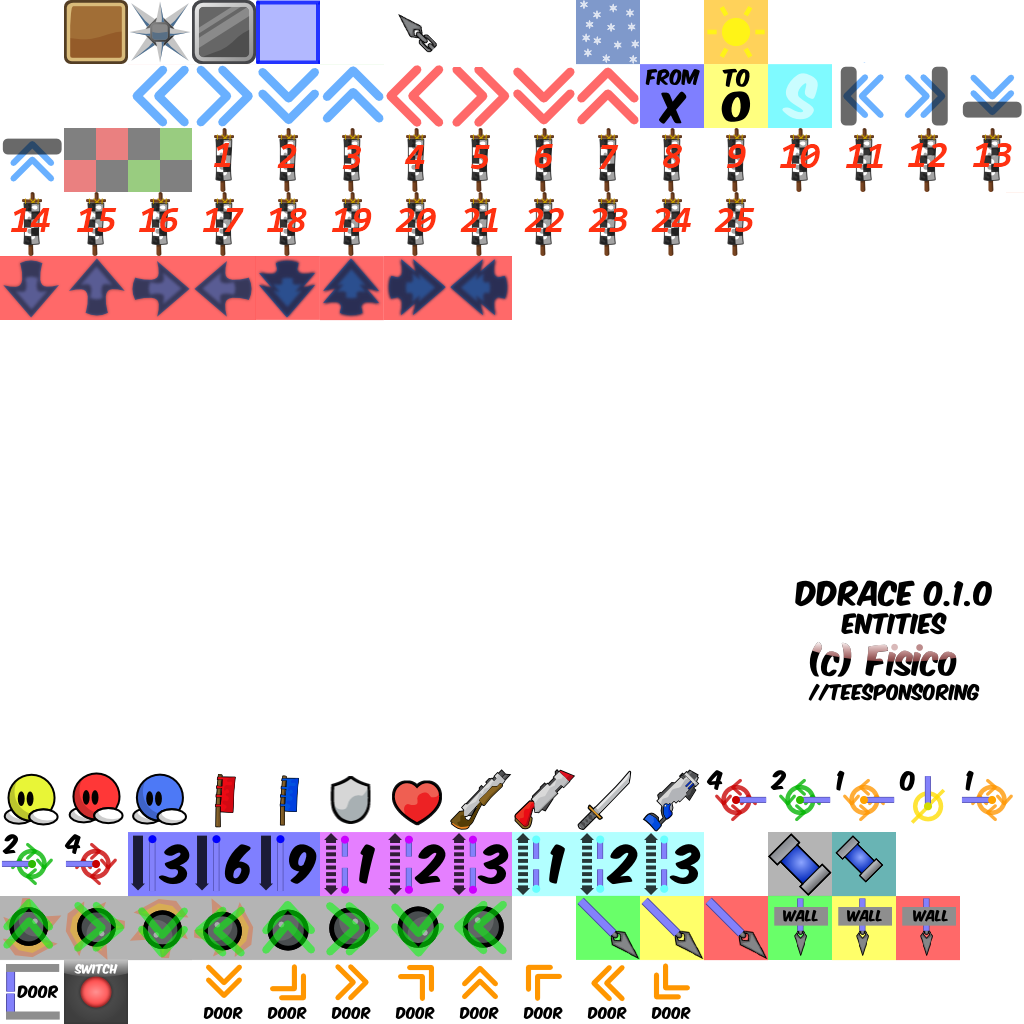
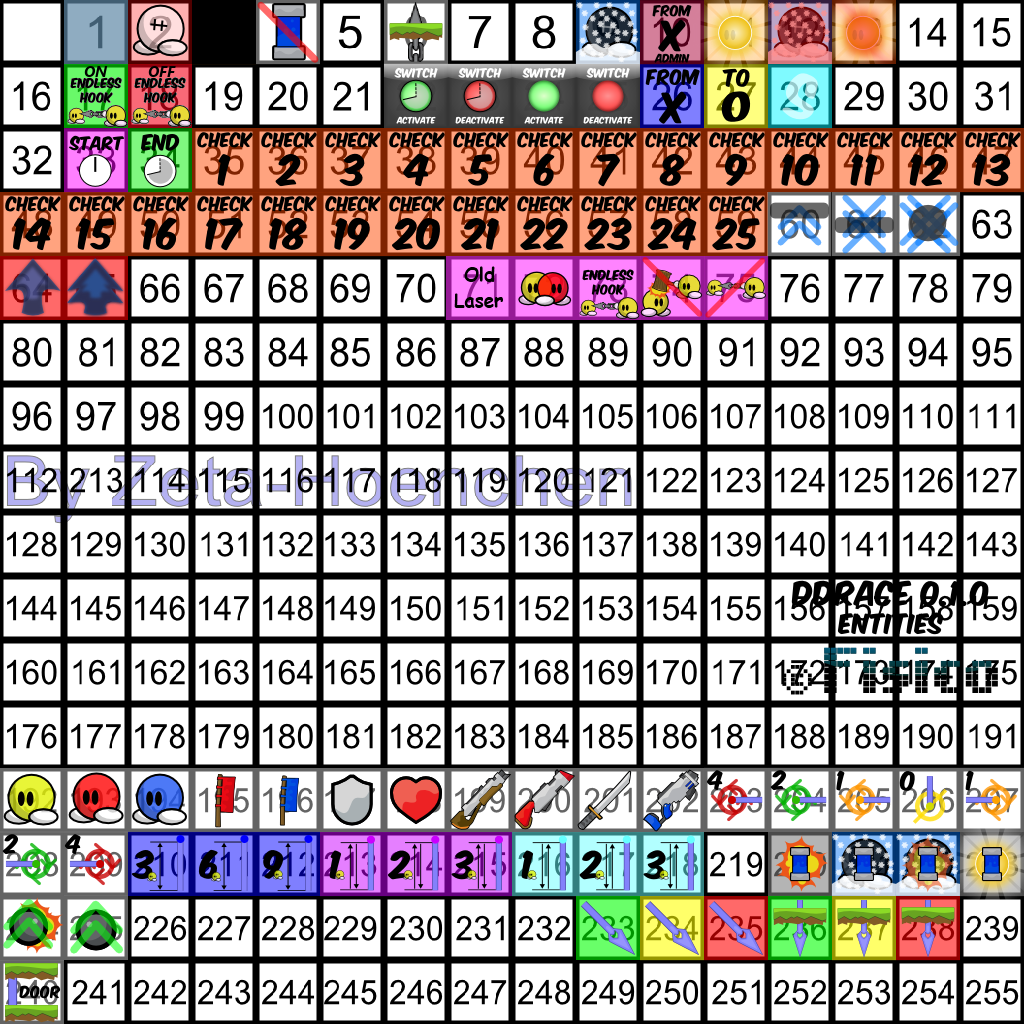
Added a new entities_clear Fixed cl_ddrace_cheats not controlling cl_show_entities attempted to make cl_show_entities show other layers than the game layer

diff --git a/src/game/client/components/maplayers.cpp b/src/game/client/components/maplayers.cpp
@@ -128,6 +128,10 @@ void CMapLayers::OnRender()
 			CMapItemLayer *pLayer = m_pLayers->GetLayer(pGroup->m_StartLayer+l);
 			bool Render = false;
 			bool IsGameLayer = false;
+			bool IsFrontLayer = false;
+			bool IsSwitchLayer = false;
+			bool IsTeleLayer = false;
+			bool IsSpeedupLayer = false;
 			
 			if(pLayer == (CMapItemLayer*)m_pLayers->GameLayer())
 			{
@@ -135,6 +139,18 @@ void CMapLayers::OnRender()
 				PassedGameLayer = 1;
 			}
 			
+			if(pLayer == (CMapItemLayer*)m_pLayers->FrontLayer())
+				IsFrontLayer = true;
+
+			if(pLayer == (CMapItemLayer*)m_pLayers->SwitchLayer())
+				IsSwitchLayer = true;
+
+			if(pLayer == (CMapItemLayer*)m_pLayers->TeleLayer())
+				IsTeleLayer = true;
+
+			if(pLayer == (CMapItemLayer*)m_pLayers->SpeedupLayer())
+				IsSpeedupLayer = true;
+
 			// skip rendering if detail layers if not wanted
 			if(pLayer->m_Flags&LAYERFLAG_DETAIL && !g_Config.m_GfxHighDetail && !IsGameLayer)
 				continue;
@@ -178,8 +194,8 @@ void CMapLayers::OnRender()
 					io_close(File);
 				}
 			}			
-			
-			if((Render && !IsGameLayer && !g_Config.m_ClShowEntities) || (g_Config.m_ClShowEntities && IsGameLayer))
+
+			if((Render && !IsGameLayer && !IsFrontLayer && !IsTeleLayer && !IsSwitchLayer && !IsSpeedupLayer && (!g_Config.m_ClShowEntities || !g_Config.m_ClDDRaceCheats)) || ((g_Config.m_ClShowEntities && g_Config.m_ClDDRaceCheats) && (IsGameLayer || IsFrontLayer || IsTeleLayer || IsSwitchLayer || IsSpeedupLayer)))
 			{
 				//layershot_begin();
 				
@@ -188,7 +204,7 @@ void CMapLayers::OnRender()
 					CMapItemLayerTilemap *pTMap = (CMapItemLayerTilemap *)pLayer;
 					if(pTMap->m_Image == -1)
 					{
-						if(!g_Config.m_ClShowEntities || !g_Config.m_ClDDRaceCheats)
+						if(!g_Config.m_ClShowEntities)
 							Graphics()->TextureSet(-1);
 						else
 							Graphics()->TextureSet(m_pClient->m_pMapimages->GetEntities());

diff --git a/src/game/client/components/menus_settings.cpp b/src/game/client/components/menus_settings.cpp
@@ -694,13 +694,7 @@ void CMenus::RenderSettingsDDRace(CUIRect MainView)
 	}
 
 	MainView.HSplitTop(20.0f, &Button, &MainView);
-	if(DoButton_CheckBox(&g_Config.m_ClDDRaceCheats, Localize("Enable DDRace cheats like zoom"), g_Config.m_ClDDRaceCheats, &Button))
-	{
-		g_Config.m_ClDDRaceCheats ^= 1;
-	}
-
-	MainView.HSplitTop(20.0f, &Button, &MainView);
-	if(DoButton_CheckBox(&g_Config.m_ClShowEntities, Localize("Cheat: Shows Entities in game (can also be toggled via console cl_show_entities)"), g_Config.m_ClShowEntities, &Button))
+	if(DoButton_CheckBox(&g_Config.m_ClShowEntities, Localize("Cheat: Shows Entities in game (can also be toggled via console cl_show_entities)"), g_Config.m_ClShowEntities && g_Config.m_ClDDRaceCheats, &Button))
 	{
 		g_Config.m_ClShowEntities ^= 1;
 	}

diff --git a/src/game/client/render_map.cpp b/src/game/client/render_map.cpp
@@ -84,7 +84,7 @@ static void Rotate(CPoint *pCenter, CPoint *pPoint, float Rotation)
 
 void CRenderTools::RenderQuads(CQuad *pQuads, int NumQuads, int RenderFlags, void (*pfnEval)(float TimeOffset, int Env, float *pChannels, void *pUser), void *pUser)
 {
-	if(g_Config.m_ClShowEntities)
+	if(g_Config.m_ClShowEntities && g_Config.m_ClDDRaceCheats)
 		return;
 	Graphics()->QuadsBegin();
 	float Conv = 1/255.0f;

diff --git a/src/game/layers.cpp b/src/game/layers.cpp
@@ -23,6 +23,10 @@ void CLayers::Init(class IKernel *pKernel)
 	m_pMap->GetType(MAPITEMTYPE_GROUP, &m_GroupsStart, &m_GroupsNum);
 	m_pMap->GetType(MAPITEMTYPE_LAYER, &m_LayersStart, &m_LayersNum);
 	
+	m_pTeleLayer = 0;
+	m_pSpeedupLayer = 0;
+	m_pFrontLayer = 0;
+	m_pSwitchLayer = 0;
 	for(int g = 0; g < NumGroups(); g++)
 	{
 		CMapItemGroup *pGroup = GetGroup(g);

diff --git a/src/engine/client/client.cpp b/src/engine/client/client.cpp
@@ -931,7 +931,7 @@ const char *CClient::ErrorString()
 
 void CClient::Render()
 {
-	if(g_Config.m_GfxClear || g_Config.m_ClShowEntities)
+	if(g_Config.m_GfxClear || (g_Config.m_ClShowEntities && g_Config.m_ClDDRaceCheats))
 		Graphics()->Clear(0.3f,0.3f,0.6f);
 	else if(g_Config.m_GfxClear)
 		Graphics()->Clear(1,1,0);
